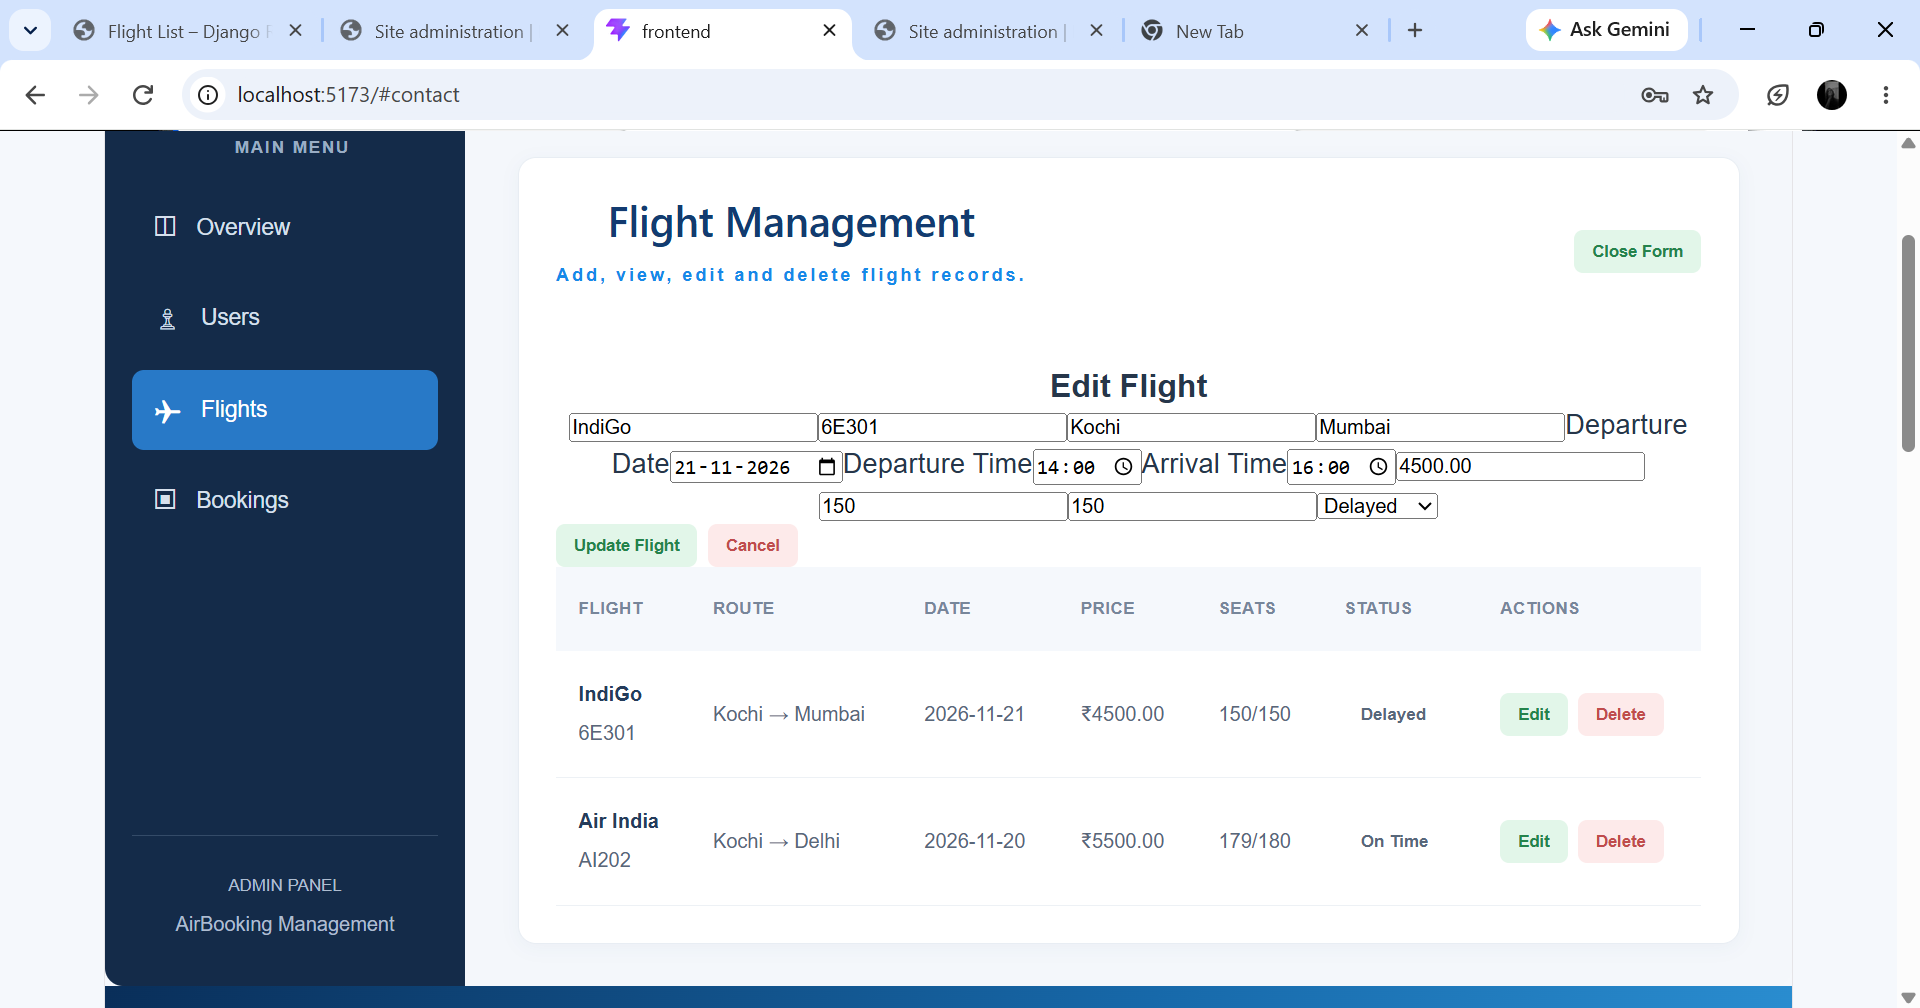
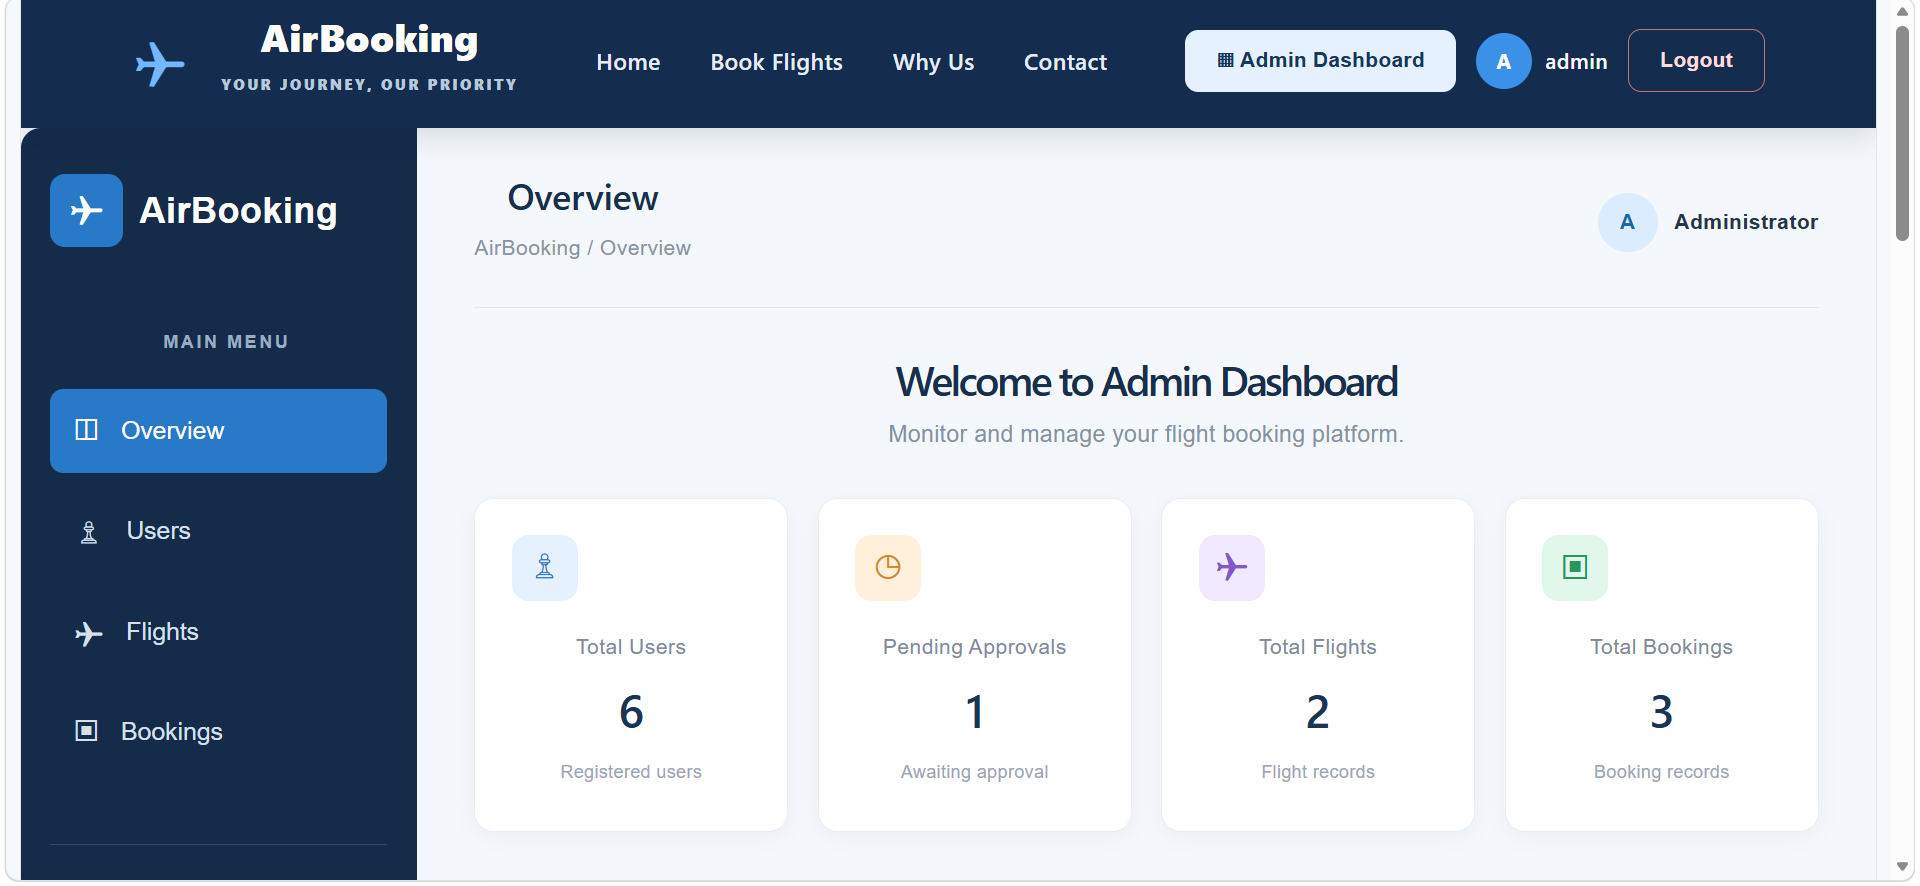
Update screenshots and README

diff --git a/README.md b/README.md
@@ -93,7 +93,6 @@ AirBooking/
 
 The following screenshots demonstrate the main functionalities of the AirBooking application.
 
-
 ### Home Page
 ![Home Page](screenshots/home.png)
 
@@ -104,7 +103,7 @@ The following screenshots demonstrate the main functionalities of the AirBooking
 ![Login](screenshots/login.png)
 
 ### My Trips
-![My Trips](screenshots/my_bookings.png)
+![My Trips](screenshots/my_trips.png)
 
 ### Admin Dashboard
 ![Admin Dashboard](screenshots/admin_dashboard.png)
@@ -117,7 +116,7 @@ The following screenshots demonstrate the main functionalities of the AirBooking
 
 ### Manage Bookings
 ![Manage Bookings](screenshots/manage_bookings.png)
----
+
 
 ## ⚙ Installation and Setup
 
